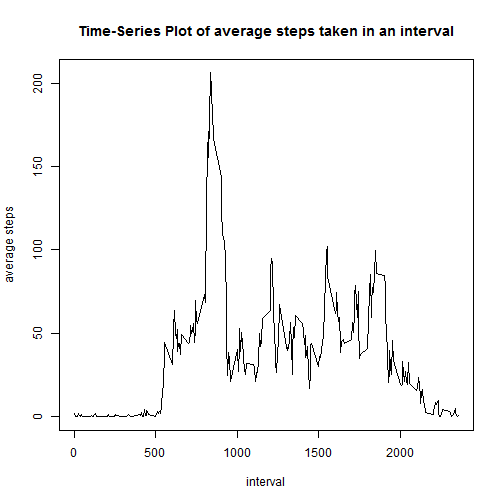
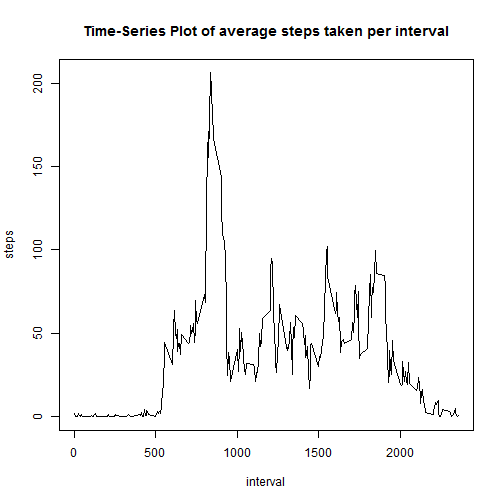
7th commit

Changed region(s): [[0.1488, 0.0298, 0.9226, 0.0893], [0.0, 0.3869, 0.0298, 0.5655]]

diff --git a/PA1_template.html b/PA1_template.html
@@ -213,10 +213,10 @@ ActivityData1$date&lt;-as.POSIXct(ActivityData1$date)
 <p>###plotting Histogram of Total number of Steps taken per day over the 2-month period</p>
 
 <pre><code class="r">library(ggplot2)
-qplot(steps,data=StepsPerDay1,geom=(&quot;histogram&quot;),binwidth=1000)
+qplot(steps,data=StepsPerDay1,geom=(&quot;histogram&quot;),binwidth=950)
 </code></pre>
 
[2 lines of base64/hex data omitted]
 
 <p>###Mean and Median calculation</p>
 
@@ -232,11 +232,11 @@ MeanOfStepsPerDay1&lt;-mean(StepsPerDay1$steps)
 
 <pre><code class="r">AvgStepsinaInterval&lt;-aggregate(steps~interval,ActivityData1,mean)
 
-with(AvgStepsinaInterval,plot(interval,steps,xlab=&quot;interval&quot;,ylab=&quot;average steps&quot;,
-main=&quot;Time-Series Plot of average steps taken in an interval&quot;,type=&quot;l&quot;))
+with(AvgStepsinaInterval,plot(interval,steps,xlab=&quot;interval&quot;,ylab=&quot;steps&quot;,
+main=&quot;Time-Series Plot of average steps taken per interval&quot;,type=&quot;l&quot;))
 </code></pre>
 
[2 lines of base64/hex data omitted]
 
 <p>###Calculating 5-minute interval with the maximum number of steps</p>
 
@@ -275,10 +275,10 @@ ActivityData2[i,1]&lt;- AvgStepsinaInterval[(AvgStepsinaInterval$interval==findi
 <p>###plotting Histogram of Total number of Steps taken each day after filling in missing values</p>
 
 <pre><code class="r">library(ggplot2)
-qplot(steps,data=StepsPerDay2,geom=(&quot;histogram&quot;),binwidth=1000)
+qplot(steps,data=StepsPerDay2,geom=(&quot;histogram&quot;),binwidth=950)
 </code></pre>
 
[2 lines of base64/hex data omitted]
 
 <p>###Mean and Median calculation</p>
 
@@ -340,10 +340,10 @@ by=list(weekday=ActivityData2$V5,interval=ActivityData2$interval),FUN=mean, na.r
 
 <pre><code class="r">library(lattice)
 daysAVG&lt;-transform(daysAVG,weekday=factor(weekday))
-xyplot(x~interval|weekday,data=daysAVG,layout=c(1,2),ylab=&quot;Avg Number of steps&quot;,type = &quot;l&quot;)
+xyplot(x~interval|weekday,data=daysAVG,layout=c(1,2),ylab=&quot;Avg number of steps&quot;,type = &quot;l&quot;)
 </code></pre>
 
[2 lines of base64/hex data omitted]
 
 </body>
 

diff --git a/PA1_template.md b/PA1_template.md
@@ -28,7 +28,7 @@ StepsPerDay1<-aggregate(steps~date,ActivityData1,sum)
 
 ```r
 library(ggplot2)
-qplot(steps,data=StepsPerDay1,geom=("histogram"),binwidth=1000)
+qplot(steps,data=StepsPerDay1,geom=("histogram"),binwidth=950)
 ```
 
 ![plot of chunk unnamed-chunk-3](figure/unnamed-chunk-3.png) 
@@ -51,8 +51,8 @@ The median of Total steps per day is **10765**
 ```r
 AvgStepsinaInterval<-aggregate(steps~interval,ActivityData1,mean)
         
-with(AvgStepsinaInterval,plot(interval,steps,xlab="interval",ylab="average steps",
-main="Time-Series Plot of average steps taken in an interval",type="l"))
+with(AvgStepsinaInterval,plot(interval,steps,xlab="interval",ylab="steps",
+main="Time-Series Plot of average steps taken per interval",type="l"))
 ```
 
 ![plot of chunk unnamed-chunk-5](figure/unnamed-chunk-5.png) 
@@ -103,7 +103,7 @@ StepsPerDay2<-aggregate(steps~date,ActivityData2,sum)
 
 ```r
 library(ggplot2)
-qplot(steps,data=StepsPerDay2,geom=("histogram"),binwidth=1000)
+qplot(steps,data=StepsPerDay2,geom=("histogram"),binwidth=950)
 ```
 
 ![plot of chunk unnamed-chunk-10](figure/unnamed-chunk-10.png) 
@@ -177,7 +177,7 @@ by=list(weekday=ActivityData2$V5,interval=ActivityData2$interval),FUN=mean, na.r
 ```r
 library(lattice)
 daysAVG<-transform(daysAVG,weekday=factor(weekday))
-xyplot(x~interval|weekday,data=daysAVG,layout=c(1,2),ylab="Avg Number of steps",type = "l")
+xyplot(x~interval|weekday,data=daysAVG,layout=c(1,2),ylab="Avg number of steps",type = "l")
 ```
 
 ![plot of chunk unnamed-chunk-14](figure/unnamed-chunk-14.png) 
